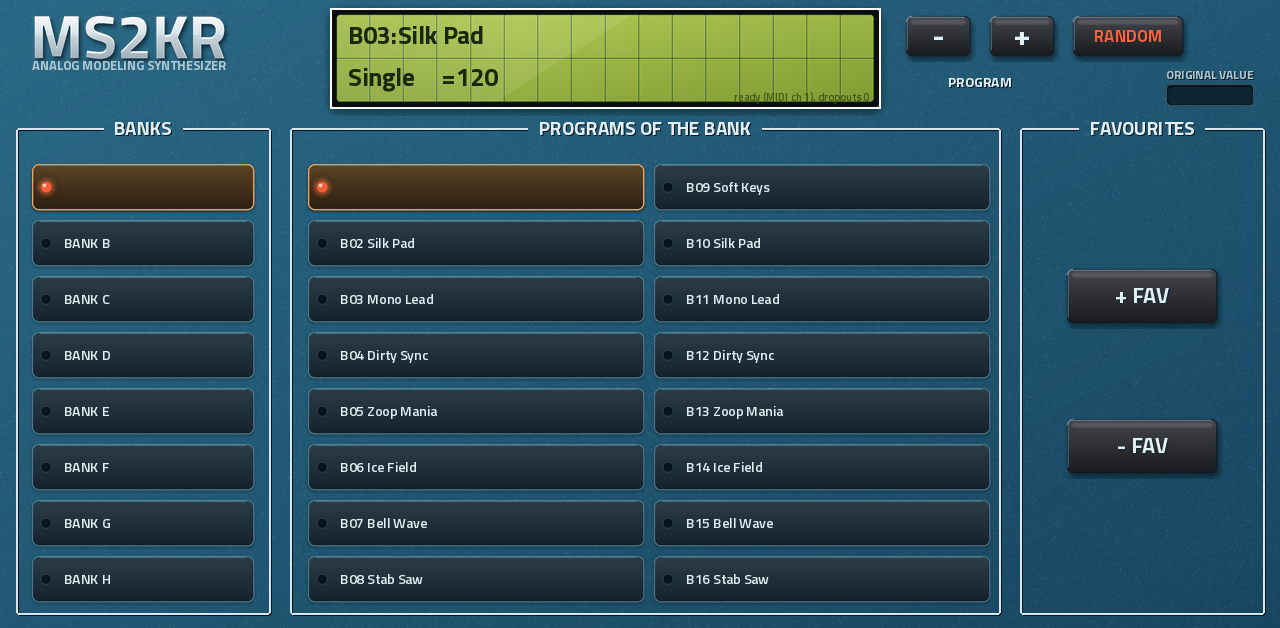
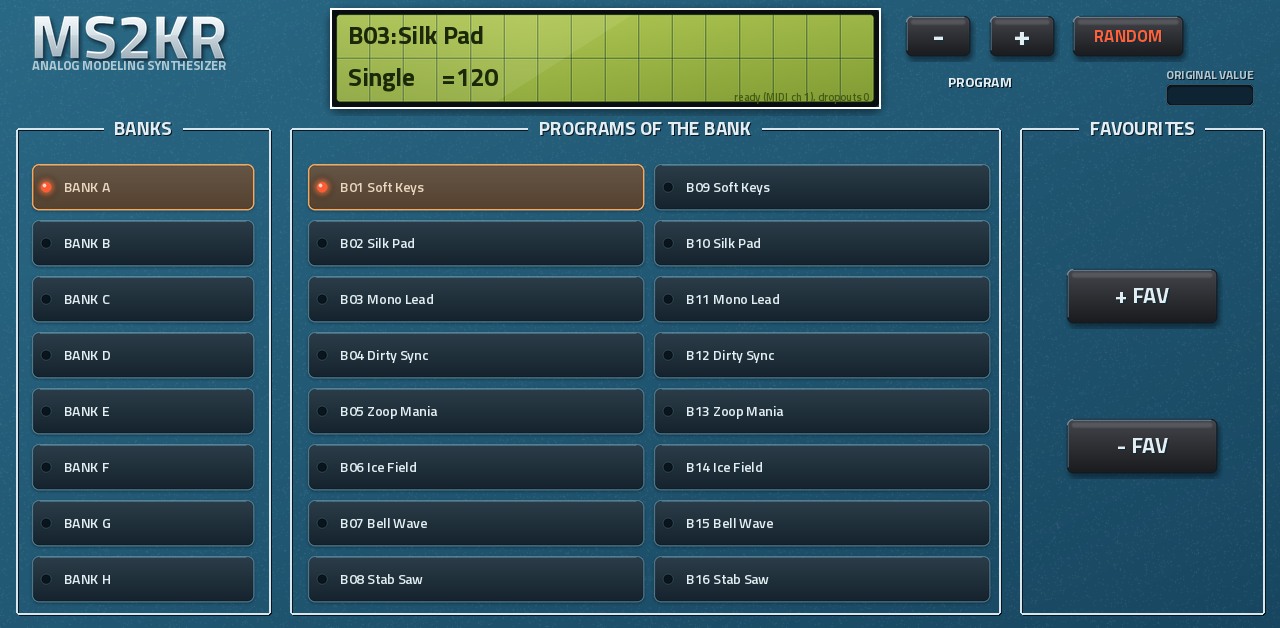
Skin: lit list tiles are a translucent overlay so the name stays readable
Claude-Session: https://claude.ai/code/session_01CpoP2sim1xis3LYKUvRw98

Changed region(s): [[0.0, 0.242, 0.5, 0.3328]]

diff --git a/tools/ms2k_art.py b/tools/ms2k_art.py
@@ -399,11 +399,25 @@ def glyph_key(w, h, kind, pressed, text=None, size=20, ink=None):
 
 
 def tile(w, h, lit):
-    """A list tile (a bank or a program): a dark glass strip, lit = an amber edge and a lamp at its left. Text is live, drawn over it."""
+    """A list tile (a bank or a program). lit=False is the dark glass strip with a dark lamp, drawn into the page art. lit=True is the
+    Button's on image, laid over the live name: translucent (a warm tint, an amber edge, a glowing lamp), so the text stays readable."""
     S = 3
     m = 4
     W, H = (w + 2 * m) * S, (h + 2 * m) * S
     im = Image.new("RGBA", (W, H), (0, 0, 0, 0))
+    lx, ly, lr = (m + 14) * S, (m + h / 2) * S, 5 * S
+    if lit:
+        tint = Image.new("RGBA", (W, H), (0, 0, 0, 0))
+        ImageDraw.Draw(tint).rounded_rectangle((m * S, m * S, (m + w) * S, (m + h) * S), 7 * S, fill=(255, 150, 60, 70))
+        im.alpha_composite(tint)
+        gl = Image.new("RGBA", (W, H), (0, 0, 0, 0))
+        ImageDraw.Draw(gl).ellipse((lx - lr * 2, ly - lr * 2, lx + lr * 2, ly + lr * 2), fill=(255, 120, 60, 130))
+        im.alpha_composite(gl.filter(ImageFilter.GaussianBlur(3 * S)))
+        d = ImageDraw.Draw(im)
+        d.rounded_rectangle((m * S, m * S, (m + w) * S, (m + h) * S), 7 * S, outline=(255, 170, 90, 240), width=int(1.5 * S))
+        d.ellipse((lx - lr, ly - lr, lx + lr, ly + lr), fill=(255, 92, 52, 255))
+        d.ellipse((lx - lr // 2 - S, ly - lr // 2 - S, lx, ly), fill=(255, 210, 190, 255))
+        return im.resize((w + 2 * m, h + 2 * m), Image.LANCZOS)
     d = ImageDraw.Draw(im)
     d.rounded_rectangle((m * S, (m + 1) * S, (m + w) * S, (m + h + 1) * S), 7 * S, fill=SHADOW + (110,))
     im = im.filter(ImageFilter.GaussianBlur(1.5 * S))
@@ -412,25 +426,14 @@ def tile(w, h, lit):
     mk = Image.new("L", (W, H), 0)
     ImageDraw.Draw(mk).rounded_rectangle((m * S, m * S, (m + w) * S, (m + h) * S), 7 * S, fill=255)
     mp = mk.load()
-    top, bot = ((44, 62, 74), (20, 34, 44)) if not lit else ((92, 70, 40), (44, 30, 16))
     for y in range(m * S, (m + h) * S):
-        t = (y - m * S) / (h * S)
-        c = lerp(top, bot, t)
+        c = lerp((44, 62, 74), (20, 34, 44), (y - m * S) / (h * S))
         for x in range(m * S, (m + w) * S):
             if mp[x, y]:
                 bp[x, y] = c + (255,)
     im.alpha_composite(body)
     d = ImageDraw.Draw(im)
-    d.rounded_rectangle((m * S, m * S, (m + w) * S, (m + h) * S), 7 * S, outline=((255, 170, 90) if lit else (120, 156, 172)) + (230 if lit else 150,), width=int(1.5 * S) if lit else S)
+    d.rounded_rectangle((m * S, m * S, (m + w) * S, (m + h) * S), 7 * S, outline=(120, 156, 172, 150), width=S)
     d.line(((m + 8) * S, (m + 1) * S, (m + w - 8) * S, (m + 1) * S), fill=(255, 255, 255, 60), width=S)
-    lx, ly, lr = (m + 14) * S, (m + h / 2) * S, 5 * S
-    if lit:
-        gl = Image.new("RGBA", (W, H), (0, 0, 0, 0))
-        ImageDraw.Draw(gl).ellipse((lx - lr * 2, ly - lr * 2, lx + lr * 2, ly + lr * 2), fill=(255, 120, 60, 130))
-        im.alpha_composite(gl.filter(ImageFilter.GaussianBlur(3 * S)))
-        d = ImageDraw.Draw(im)
-        d.ellipse((lx - lr, ly - lr, lx + lr, ly + lr), fill=(255, 92, 52, 255))
-        d.ellipse((lx - lr // 2 - S, ly - lr // 2 - S, lx, ly), fill=(255, 210, 190, 255))
-    else:
-        d.ellipse((lx - lr, ly - lr, lx + lr, ly + lr), fill=(10, 20, 28, 255), outline=(90, 120, 134, 200))
+    d.ellipse((lx - lr, ly - lr, lx + lr, ly + lr), fill=(10, 20, 28, 255), outline=(90, 120, 134, 200))
     return im.resize((w + 2 * m, h + 2 * m), Image.LANCZOS)

diff --git a/tools/make_tui.py b/tools/make_tui.py
@@ -484,6 +484,7 @@ def preview(pages, arts, defs, keyboard=False):
     for pg in pages:
         im = Image.open(os.path.join(OUT, arts[pg.name])).convert("RGBA")
         d = ImageDraw.Draw(im)
+        lit = []
         if keyboard and not pg.keyboard:
             continue
         for e in pg.kids + (pg.overlay if keyboard else []):
@@ -509,7 +510,9 @@ def preview(pages, arts, defs, keyboard=False):
             elif cd["type"] == "Button" and cd["data"]["offImage"] != CLEAR:
                 im.alpha_composite(Image.open(os.path.join(OUT, cd["data"]["offImage"])).convert("RGBA"), (x, y))
             elif cd["type"] == "Button" and cd["name"] in ("bank_slot_1 tile", "patch_slot_1 tile"):
-                im.alpha_composite(Image.open(os.path.join(OUT, cd["data"]["onImage"])).convert("RGBA"), (x, y))
+                lit.append((cd["data"]["onImage"], x, y))
+        for f, x, y in lit:   # the lit tiles' overlay is the Button, on top of the label: composed last, as on the device
+            im.alpha_composite(Image.open(os.path.join(OUT, f)).convert("RGBA"), (x, y))
         if not keyboard:
             for _, r in pg.blocks:
                 d.rectangle(r, outline=(255, 255, 255, 200), width=2)
